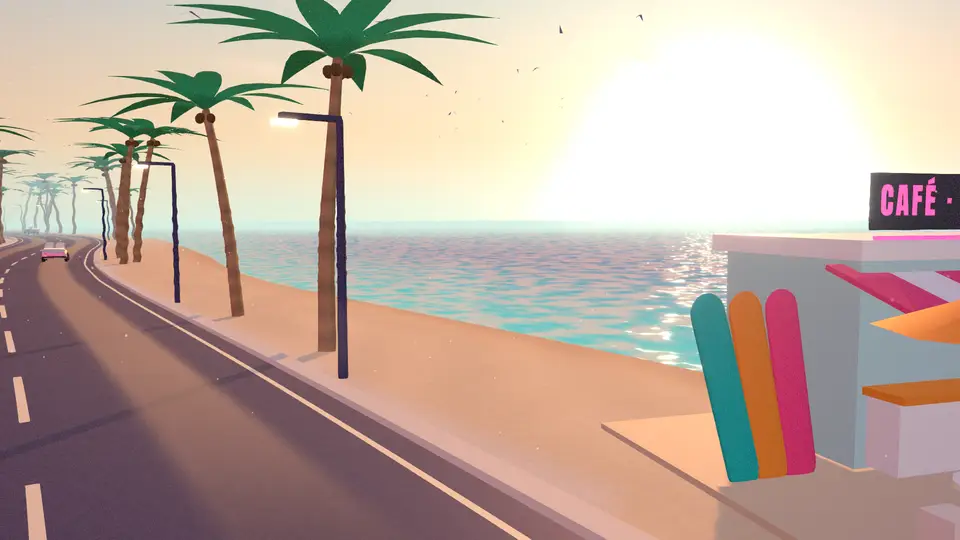
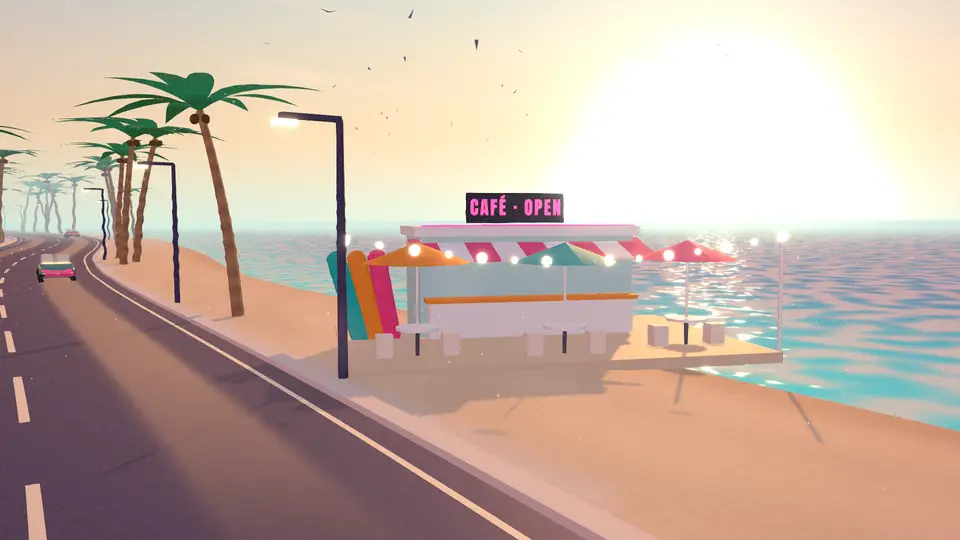
Experience: whole beach café in view on the original low road drive
- Keep the experience stop camera exactly as before; move the café down the
  beach (z -164, CAFE in layout.ts) so the low road-level view frames the whole
  hut beside the app panel with the sunset sea behind it
- Face the café toward the stop camera; keep palms out of its sightline
- Portrait-ish canvases (phone scene window) swing the view onto the café
- Re-render the experience stills; capture-stills takes STILLS_ONLY=<ids>

diff --git a/scene/props/Street.tsx b/scene/props/Street.tsx
@@ -3,7 +3,7 @@
 import { useMemo, useRef } from "react";
 import { useFrame } from "@react-three/fiber";
 import * as THREE from "three";
-import { STOPS, TERRAIN_BOUNDS, coastX, roadX, roadY, terrainHeight } from "../layout";
+import { CAFE, STOPS, TERRAIN_BOUNDS, coastX, roadX, roadY, terrainHeight } from "../layout";
 import { hash } from "../noise";
 import { DecoRow, type DecoSpec } from "./Deco";
 import { Palms } from "./Palms";
@@ -18,6 +18,15 @@ const CLEAR: [number, number][] = [
 const isClear = (z: number) => CLEAR.some(([a, b]) => z > a && z < b);
 /** Keep palms out of the lens: nothing within 16 m of a camera stop. */
 const nearCam = (x: number, z: number) => STOPS.some((s) => Math.hypot(x - s.cam.x, z - s.cam.z) < 16);
+/** Keep the beach café readable: no palm on its deck or in the sightline from the experience stop. */
+const blocksCafe = (x: number, z: number) => {
+  const c = STOPS[3].cam;
+  const dx = CAFE.x - c.x;
+  const dz = CAFE.z - c.z;
+  const t = THREE.MathUtils.clamp(((x - c.x) * dx + (z - c.z) * dz) / (dx * dx + dz * dz), 0, 1.25);
+  return Math.hypot(x - (c.x + dx * t), z - (c.z + dz * t)) < 8.5;
+};
+const keepOut = (x: number, z: number) => nearCam(x, z) || blocksCafe(x, z);
 
 const SEGMENT = 60;
 /** Segments further than this (along z) from the camera are hidden: the haze hides the cut. */
@@ -82,14 +91,14 @@ export function Street({ density = 1 }: { density?: number }) {
       if (roadY(z) > 1.2) continue; // no palms on the flyover
       const sea = roadX(z) + 7.6;
       const land = roadX(z) - 7.4;
-      if (!nearCam(sea, z)) segOf(z).palms.push(new THREE.Vector3(sea, terrainHeight(sea, z), z));
+      if (!keepOut(sea, z)) segOf(z).palms.push(new THREE.Vector3(sea, terrainHeight(sea, z), z));
       if (!isClear(z) && !nearCam(land, z + 4.5)) segOf(z + 4.5).palms.push(new THREE.Vector3(land, terrainHeight(land, z + 4.5), z + 4.5));
     }
     // a few beach palms
     for (let k = 0; k < 26 * density; k++) {
       const z = maxZ - hash(k * 3.7) * (maxZ - minZ);
       const x = coastX(z) - 4 - hash(k * 1.3) * 5;
-      if (!nearCam(x, z)) segOf(z).palms.push(new THREE.Vector3(x, terrainHeight(x, z), z));
+      if (!keepOut(x, z)) segOf(z).palms.push(new THREE.Vector3(x, terrainHeight(x, z), z));
     }
     return [...segs.values()];
   }, [density]);

diff --git a/scene/scenes/ExperienceScene.tsx b/scene/scenes/ExperienceScene.tsx
@@ -9,7 +9,7 @@ import { useApp } from "@/lib/store";
 import { sfx } from "@/lib/audio";
 import { SceneRoot } from "../SceneRoot";
 import { useStopLayout } from "../useStopLayout";
-import { keepOffRoad } from "../layout";
+import { CAFE, STOPS } from "../layout";
 import { GeoBuilder, vertexColorMaterial } from "../props/geo";
 import { neonMaterial } from "../fx/materials";
 
@@ -18,13 +18,9 @@ const mat = vertexColorMaterial(0.7);
 /** Beach café: pastel hut, striped awning, counter, neon OPEN sign, tables with umbrellas, string lights, surfboards. */
 export function ExperienceScene() {
   const L = useStopLayout(3);
-  const base = useMemo(() => {
-    // walk toward the camera until the café stands on dry sand
-    let p = L.ground(L.at(L.narrow ? 0 : 0.42, 0, 4));
-    for (let dz = 4; p.y < 0.3 && dz < 20; dz += 2) p = L.ground(L.at(L.narrow ? 0 : 0.42, 0, dz));
-    // the 12 × 8 m deck never overlaps the highway
-    return L.ground(keepOffRoad(p, 7.4));
-  }, [L]);
+  const base = useMemo(() => L.ground(CAFE), [L]);
+  // the front of the deck faces the stop camera, turned a little so the awning reads in three-quarter view
+  const facing = Math.atan2(STOPS[3].cam.x - CAFE.x, STOPS[3].cam.z - CAFE.z) + 0.3;
   const expFocus = useApp((s) => s.expFocus);
   const [flick, setFlick] = useState(0);
   const sign = useRef<THREE.MeshBasicMaterial>(null);
@@ -86,7 +82,7 @@ export function ExperienceScene() {
 
   return (
     <SceneRoot index={3}>
-      <group position={base} rotation-y={L.yaw + 0.3}>
+      <group position={base} rotation-y={facing}>
         <mesh geometry={hut} material={mat} />
         {bulbs.map((p, i) => (
           <mesh key={i} position={p} material={bulbMat} scale={expFocus !== null && i % 2 === expFocus % 2 ? 1.6 : 1}>

diff --git a/scene/CameraRig.tsx b/scene/CameraRig.tsx
@@ -5,13 +5,15 @@ import { useFrame } from "@react-three/fiber";
 import * as THREE from "three";
 import { rig } from "@/lib/rig";
 import { useDeviceMode } from "@/lib/device";
-import { CURVES, curveT, roadX, roadY, STOPS } from "./layout";
+import { CAFE, CURVES, curveT, roadX, roadY, STOPS } from "./layout";
 
 const pos = new THREE.Vector3();
 const look = new THREE.Vector3();
 const off = new THREE.Vector3();
 const right = new THREE.Vector3();
 const UP = new THREE.Vector3(0, 1, 0);
+/** Portrait-ish screens look straight at the café (wide screens keep it right of the app panel). */
+const CAFE_LOOK = new THREE.Vector3(CAFE.x + 1, 2.4, CAFE.z - 3);
 
 /** Mutable camera state other scene parts can read (damped world progress etc.). */
 export const camState = { world: 0, heroWeight: 1, px: 0, py: 0 };
@@ -39,6 +41,12 @@ export function CameraRig() {
 
     // Never dip under the road deck between control points (the spline can sag on the flyover descent).
     if (Math.abs(pos.x - roadX(pos.z)) < 9) pos.y = Math.max(pos.y, roadY(pos.z) + 2.6);
+
+    // Café: on portrait-ish canvases (phone scene window) swing the view onto the café itself.
+    if (state.size.width / Math.max(1, state.size.height) < 1.1) {
+      const cw = 1 - THREE.MathUtils.smoothstep(Math.abs(w - 3), 0.2, 0.9);
+      if (cw > 0) look.lerp(CAFE_LOOK, cw);
+    }
 
     // Billboard highway: the camera dollies forward along the flyover through the four projects.
     // (phones/tablets in portrait keep the camera still: the billboards slide sideways instead)

diff --git a/scene/layout.ts b/scene/layout.ts
@@ -48,6 +48,12 @@ export const STOPS: Stop[] = [
   { cam: v(coastX(-292) - 4, 4.2, -292), target: v(coastX(-306) + 20, 2.2, -308) }, // contact: pier
 ];
 
+/**
+ * Where the beach café stands (xz): on the sand just inland of the waterline, clear of the highway, and far
+ * enough down the beach that the low road-level camera at the experience stop sees the whole hut beside the app.
+ */
+export const CAFE = keepOffRoad(v(coastX(-164) - 1.5, 0, -164), 7.4);
+
 /** Low golden-hour sun, over the sea in the direction the pier faces. */
 export const SUN_DIR = new THREE.Vector3(0.78, 0.06, -0.62).normalize();
 
